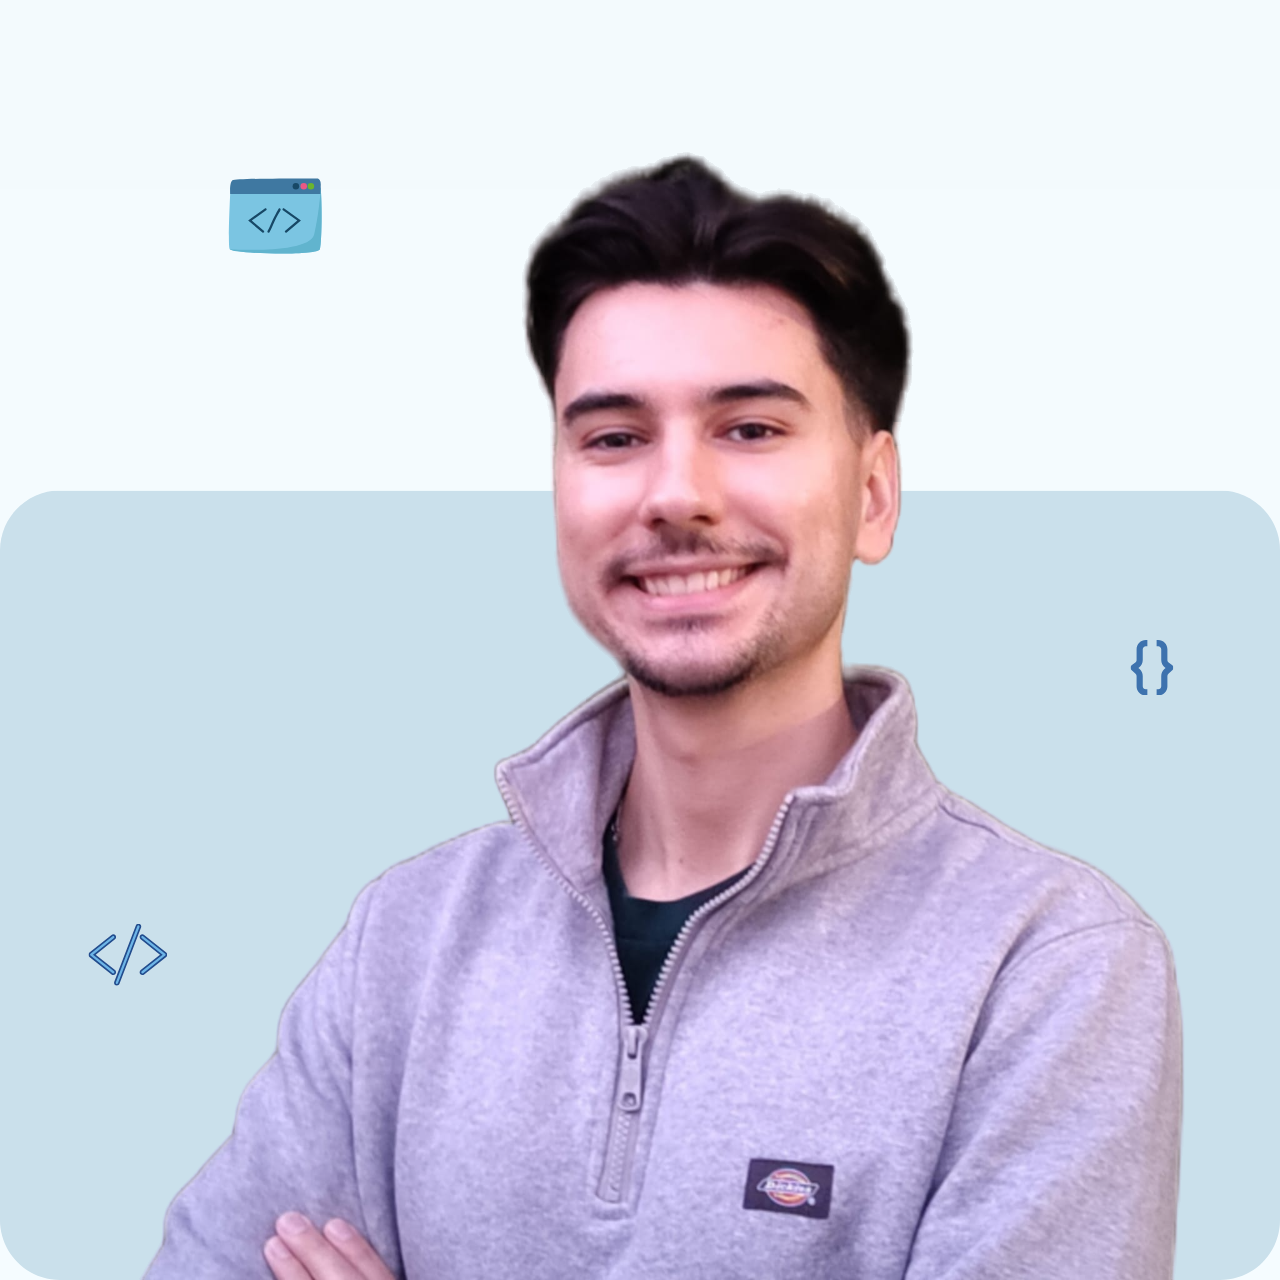
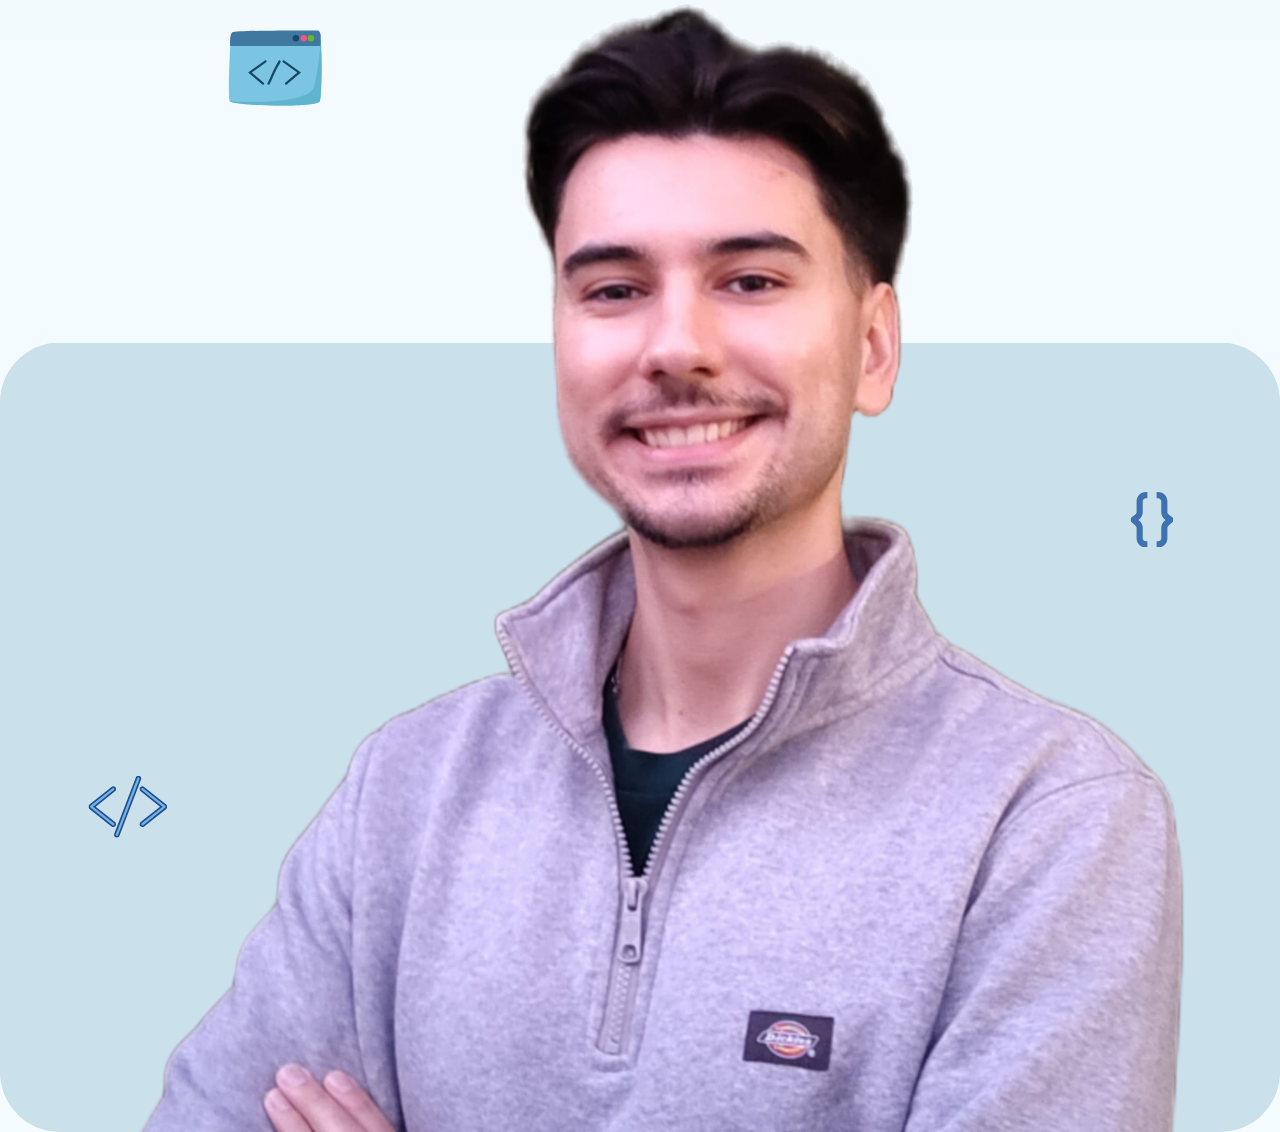
Update Pages and Images

diff --git a/src/Pages/Home/Navbar.jsx b/src/Pages/Home/Navbar.jsx
@@ -44,7 +44,7 @@ function Navbar() {
           to="heroSection"
           className="navbar--content"
         >
-          <img src="./img/logo.svg" alt="Logoipsum" />
+          <img src="./img/logo_nav.png" alt="Logo com o nome Henrique Mateus e um elemento que está associado com web development, um circulo com recortes de nós com ligações." />
         </Link>
       </div>
       <a
@@ -57,7 +57,7 @@ function Navbar() {
       </a>
       <div className={`navbar--items ${navActive ? "active" : ""}`}>
         <ul>
-        <li>
+          <li>
             <Link
               onClick={closeMenu}
               activeClass="navbar--active-content"

diff --git a/src/Pages/Home/About.jsx b/src/Pages/Home/About.jsx
@@ -2,7 +2,7 @@ export default function AboutMe() {
   return (
     <section id="AboutMe" className="about--section">
       <div className="about--section--img">
-        <img src="./img/about-me.png" alt="About Me" />
+        <img src="./img/profile_photo2.png" alt="Imagem de Henrique Mateus a sorrir e de braços cruzados, com uma camisola de fecho e gola alta cinzenta, dentro de uma forma oval roxa." />
       </div>
       <div className="hero--section--content--box about--section--box">
         <div className="hero--section--content">

diff --git a/src/Pages/Home/Portfolio.jsx b/src/Pages/Home/Portfolio.jsx
@@ -65,6 +65,7 @@ export default function MyPortfolio() {
         <div className="portfolio--container">
           <p className="sub--title">Projetos Recentes</p>
           <h2 className="section--heading">Portfolio</h2>
+          <p>Cada um dos projetos oferece a opção de, ao passar o cursor sobre a imagem, visualizar o projeto com um efeito de scroll.</p>
         </div>
         <div>
           <button className="btn btn-github" onClick={() => window.open('https://github.com/hen-mateus')}>

diff --git a/src/Pages/Home/Hero.jsx b/src/Pages/Home/Hero.jsx
@@ -30,7 +30,7 @@ export default function HeroSection() {
         </div>
       </div>
       <div className="hero--section--img">
-        <img src="./img/profile_photo.png" alt="Hero Section" />
+        <img src="./img/profile_photo.png" alt="Imagem de Henrique Mateus a sorrir e de braços cruzados, com uma camisola de fecho e gola alta cinzenta, com alguns elementos relacionados com web development, dentro de um retângulo de cor azul claro." />
       </div>
     </section>
   );

diff --git a/src/App.css b/src/App.css
@@ -184,6 +184,10 @@ h2 {
   z-index: 2;
 }
 
+.navbar img{
+  width: 25%;
+}
+
 .navbar--items>ul {
   list-style: none;
   display: flex;
@@ -265,7 +269,8 @@ h2 {
 }
 
 .hero--section--img>img {
-  width: 100%;
+  margin: auto auto;
+  width: 90%;
   height: 100%;
 }
 
